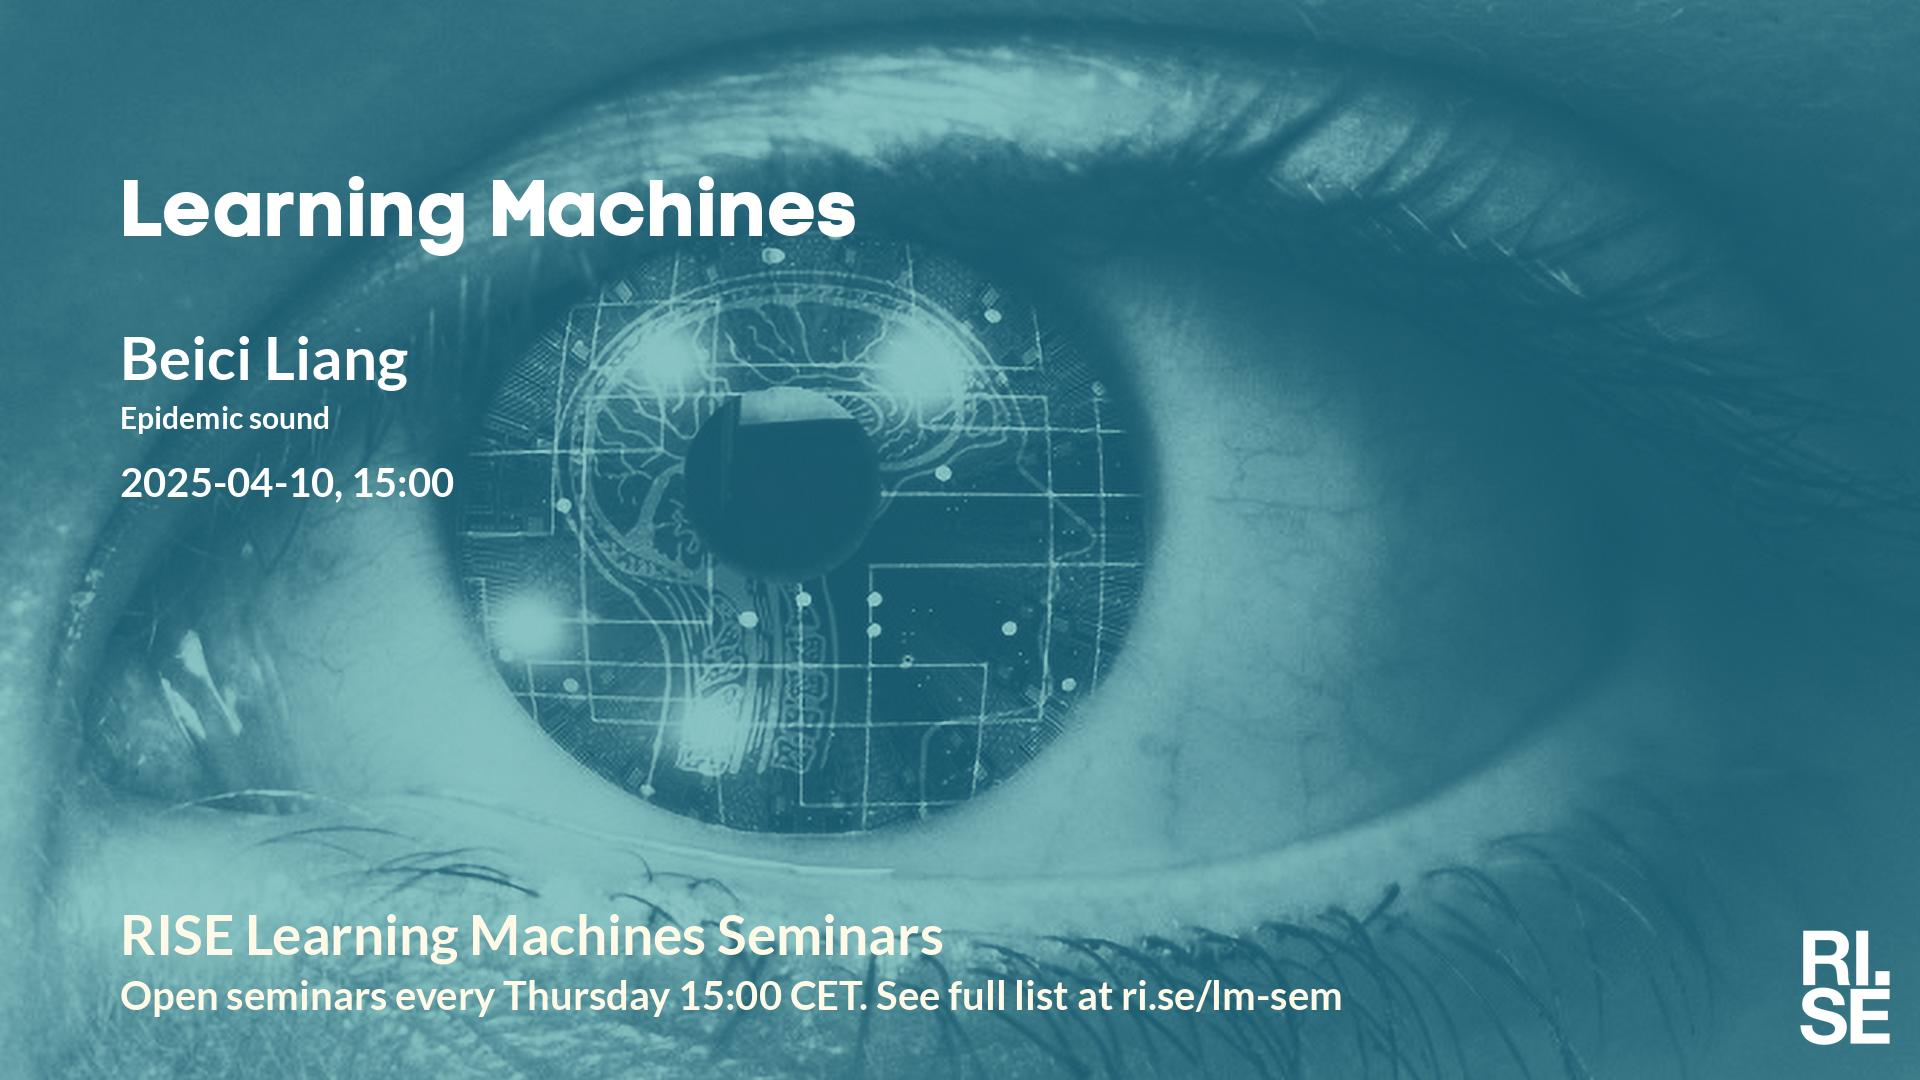
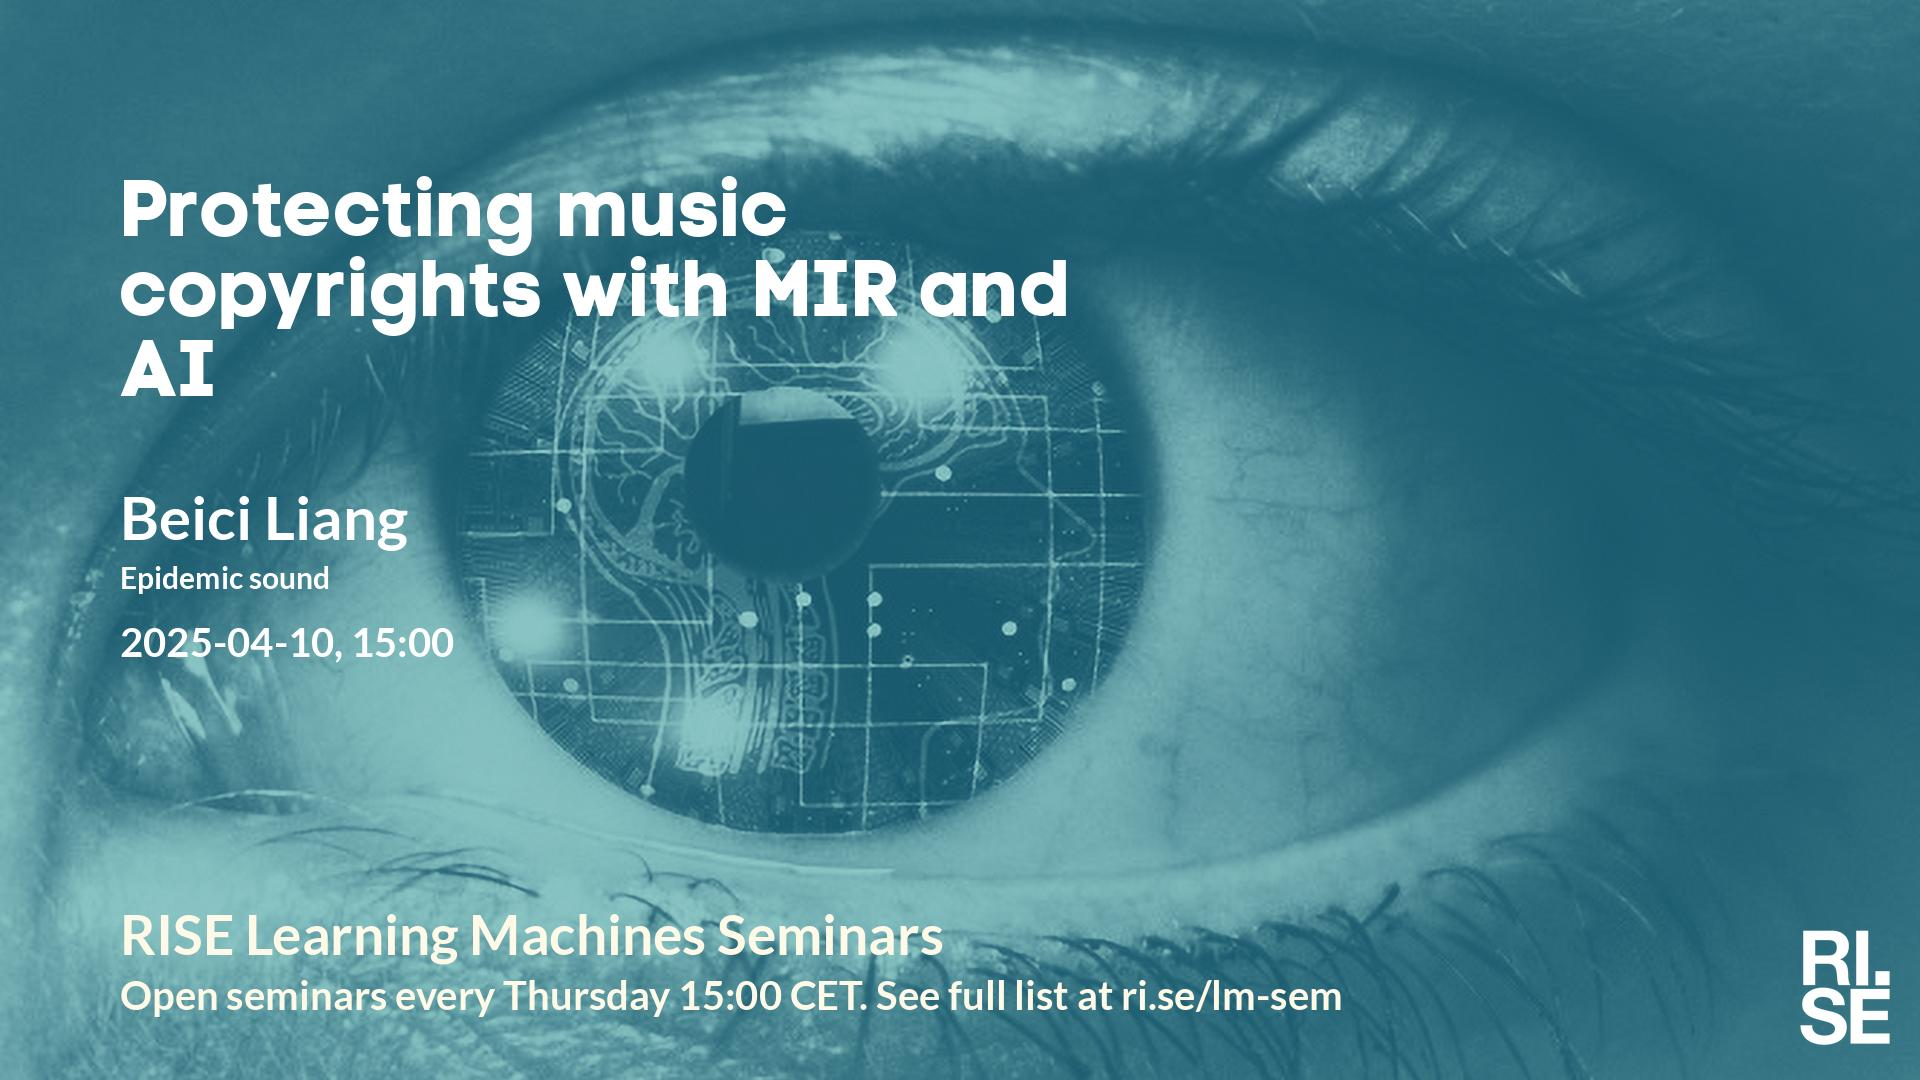
Updated plan on web site.

Changed region(s): [[0.0625, 0.1528, 0.5625, 0.3972], [0.0625, 0.4278, 0.25, 0.55], [0.0625, 0.5806, 0.25, 0.6111]]

diff --git a/lm/2025.md b/lm/2025.md
@@ -21,7 +21,7 @@ table {border-collapse: collapse;}
 |  2025-03-20  |  [Oriol Nieto, Adobe](2025-03-20.md)  |  [photo](2025-03-20-photo-oriol-nieto.jpg)  |  [social media ](2025-03-20-social-media-oriol-nieto.jpg)  |  [meeting backdrop ](2025-03-20-meeting-backdrop-oriol-nieto.jpg)  |  [youtube thumbnail ](2025-03-20-youtube-thumbnail-oriol-nieto.jpg)  |  STABP  |
 |  2025-03-27  |  [María J. Molina, University of Maryland](2025-03-27.md)  |  [photo](2025-03-27-photo-maria-j.-molina.jpg)  |  [social media ](2025-03-27-social-media-maria-j.-molina.jpg)  |  [meeting backdrop ](2025-03-27-meeting-backdrop-maria-j.-molina.jpg)  |  [youtube thumbnail ](2025-03-27-youtube-thumbnail-maria-j.-molina.jpg)  |  STABP  |
 |  2025-04-03  |  [Abdul Shaamala, Queensland University of Technology](2025-04-03.md)  |  [photo](2025-04-03-photo-abdul-shaamala.jpg)  |  [social media ](2025-04-03-social-media-abdul-shaamala.jpg)  |  [meeting backdrop ](2025-04-03-meeting-backdrop-abdul-shaamala.jpg)  |  [youtube thumbnail ](2025-04-03-youtube-thumbnail-abdul-shaamala.jpg)  |  STABP  |
-|  2025-04-10  |  [Beici Liang, Epidemic sound](2025-04-10.md)  |    |  [social media ](2025-04-10-social-media-beici-liang.jpg)  |  [meeting backdrop ](2025-04-10-meeting-backdrop-beici-liang.jpg)  |  [youtube thumbnail ](2025-04-10-youtube-thumbnail-beici-liang.jpg)  |  S~~TABP~~  |
+|  2025-04-10  |  [Beici Liang, Epidemic sound](2025-04-10.md)  |    |  [social media ](2025-04-10-social-media-beici-liang.jpg)  |  [meeting backdrop ](2025-04-10-meeting-backdrop-beici-liang.jpg)  |  [youtube thumbnail ](2025-04-10-youtube-thumbnail-beici-liang.jpg)  |  ST~~ABP~~  |
 | <span style="color:red"> 2025-04-17 </span> | <span style="color:red"> Holy Thursday </span> | <span style="color:red">  </span> | <span style="color:red">  </span> | <span style="color:red">  </span> | <span style="color:red">  </span> | <span style="color:red"> CANCELLED </span> |
 |  2025-04-24  |  [John Martinsson, RISE and Lund University](2025-04-24.md)  |  [photo](2025-04-24-photo-john-martinsson.jpg)  |  [social media ](2025-04-24-social-media-john-martinsson.jpg)  |  [meeting backdrop ](2025-04-24-meeting-backdrop-john-martinsson.jpg)  |  [youtube thumbnail ](2025-04-24-youtube-thumbnail-john-martinsson.jpg)  |  S~~TA~~BP  |
 | <span style="color:red"> 2025-05-01 </span> | <span style="color:red"> International Workers' Day </span> | <span style="color:red">  </span> | <span style="color:red">  </span> | <span style="color:red">  </span> | <span style="color:red">  </span> | <span style="color:red"> CANCELLED </span> |

diff --git a/lm/index.md b/lm/index.md
@@ -21,7 +21,7 @@ table {border-collapse: collapse;}
 |  2025-03-20  |  [Oriol Nieto, Adobe](2025-03-20.md)  |  [photo](2025-03-20-photo-oriol-nieto.jpg)  |  [social media ](2025-03-20-social-media-oriol-nieto.jpg)  |  [meeting backdrop ](2025-03-20-meeting-backdrop-oriol-nieto.jpg)  |  [youtube thumbnail ](2025-03-20-youtube-thumbnail-oriol-nieto.jpg)  |  STABP  |
 |  2025-03-27  |  [María J. Molina, University of Maryland](2025-03-27.md)  |  [photo](2025-03-27-photo-maria-j.-molina.jpg)  |  [social media ](2025-03-27-social-media-maria-j.-molina.jpg)  |  [meeting backdrop ](2025-03-27-meeting-backdrop-maria-j.-molina.jpg)  |  [youtube thumbnail ](2025-03-27-youtube-thumbnail-maria-j.-molina.jpg)  |  STABP  |
 |  2025-04-03  |  [Abdul Shaamala, Queensland University of Technology](2025-04-03.md)  |  [photo](2025-04-03-photo-abdul-shaamala.jpg)  |  [social media ](2025-04-03-social-media-abdul-shaamala.jpg)  |  [meeting backdrop ](2025-04-03-meeting-backdrop-abdul-shaamala.jpg)  |  [youtube thumbnail ](2025-04-03-youtube-thumbnail-abdul-shaamala.jpg)  |  STABP  |
-|  2025-04-10  |  [Beici Liang, Epidemic sound](2025-04-10.md)  |    |  [social media ](2025-04-10-social-media-beici-liang.jpg)  |  [meeting backdrop ](2025-04-10-meeting-backdrop-beici-liang.jpg)  |  [youtube thumbnail ](2025-04-10-youtube-thumbnail-beici-liang.jpg)  |  S~~TABP~~  |
+|  2025-04-10  |  [Beici Liang, Epidemic sound](2025-04-10.md)  |    |  [social media ](2025-04-10-social-media-beici-liang.jpg)  |  [meeting backdrop ](2025-04-10-meeting-backdrop-beici-liang.jpg)  |  [youtube thumbnail ](2025-04-10-youtube-thumbnail-beici-liang.jpg)  |  ST~~ABP~~  |
 | <span style="color:red"> 2025-04-17 </span> | <span style="color:red"> Holy Thursday </span> | <span style="color:red">  </span> | <span style="color:red">  </span> | <span style="color:red">  </span> | <span style="color:red">  </span> | <span style="color:red"> CANCELLED </span> |
 |  2025-04-24  |  [John Martinsson, RISE and Lund University](2025-04-24.md)  |  [photo](2025-04-24-photo-john-martinsson.jpg)  |  [social media ](2025-04-24-social-media-john-martinsson.jpg)  |  [meeting backdrop ](2025-04-24-meeting-backdrop-john-martinsson.jpg)  |  [youtube thumbnail ](2025-04-24-youtube-thumbnail-john-martinsson.jpg)  |  S~~TA~~BP  |
 | <span style="color:red"> 2025-05-01 </span> | <span style="color:red"> International Workers' Day </span> | <span style="color:red">  </span> | <span style="color:red">  </span> | <span style="color:red">  </span> | <span style="color:red">  </span> | <span style="color:red"> CANCELLED </span> |

diff --git a/lm/2025-04-10.md b/lm/2025-04-10.md
@@ -5,7 +5,7 @@ metatags: "<meta name=\"robots\" content=\"noindex,nofollow\" />"
  
 Welcome to this week's Learning Machines seminar.
 
-**Title:** N/A
+**Title:** Protecting music copyrights with MIR and AI: from conventional peak-based to representation learning approaches
 
 **Speaker:** Beici Liang, Epidemic sound
 
